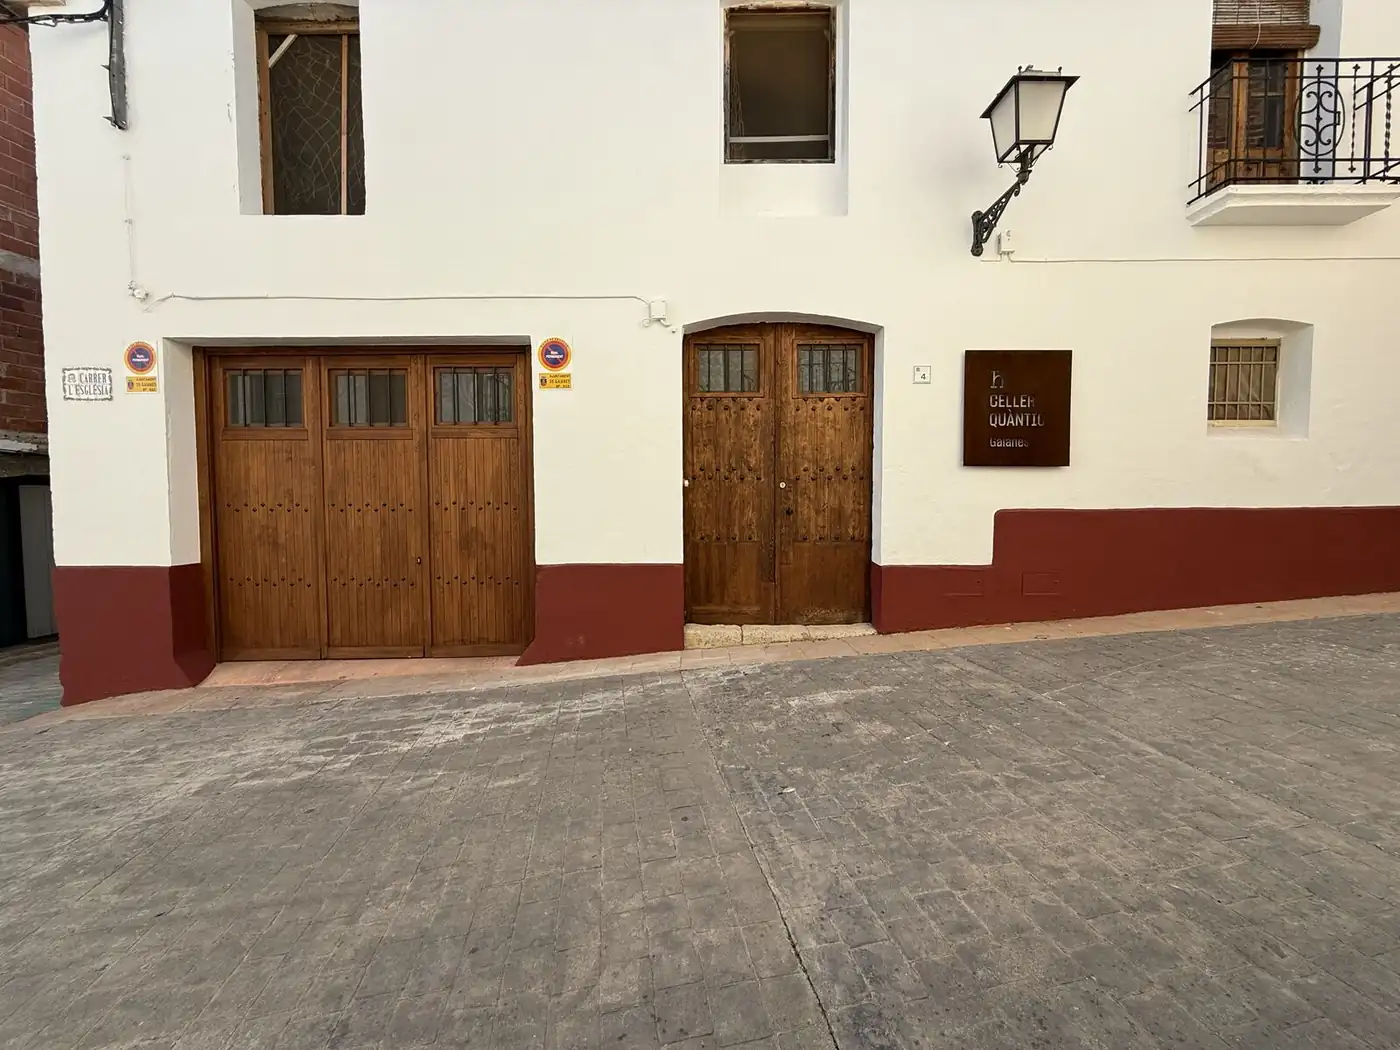
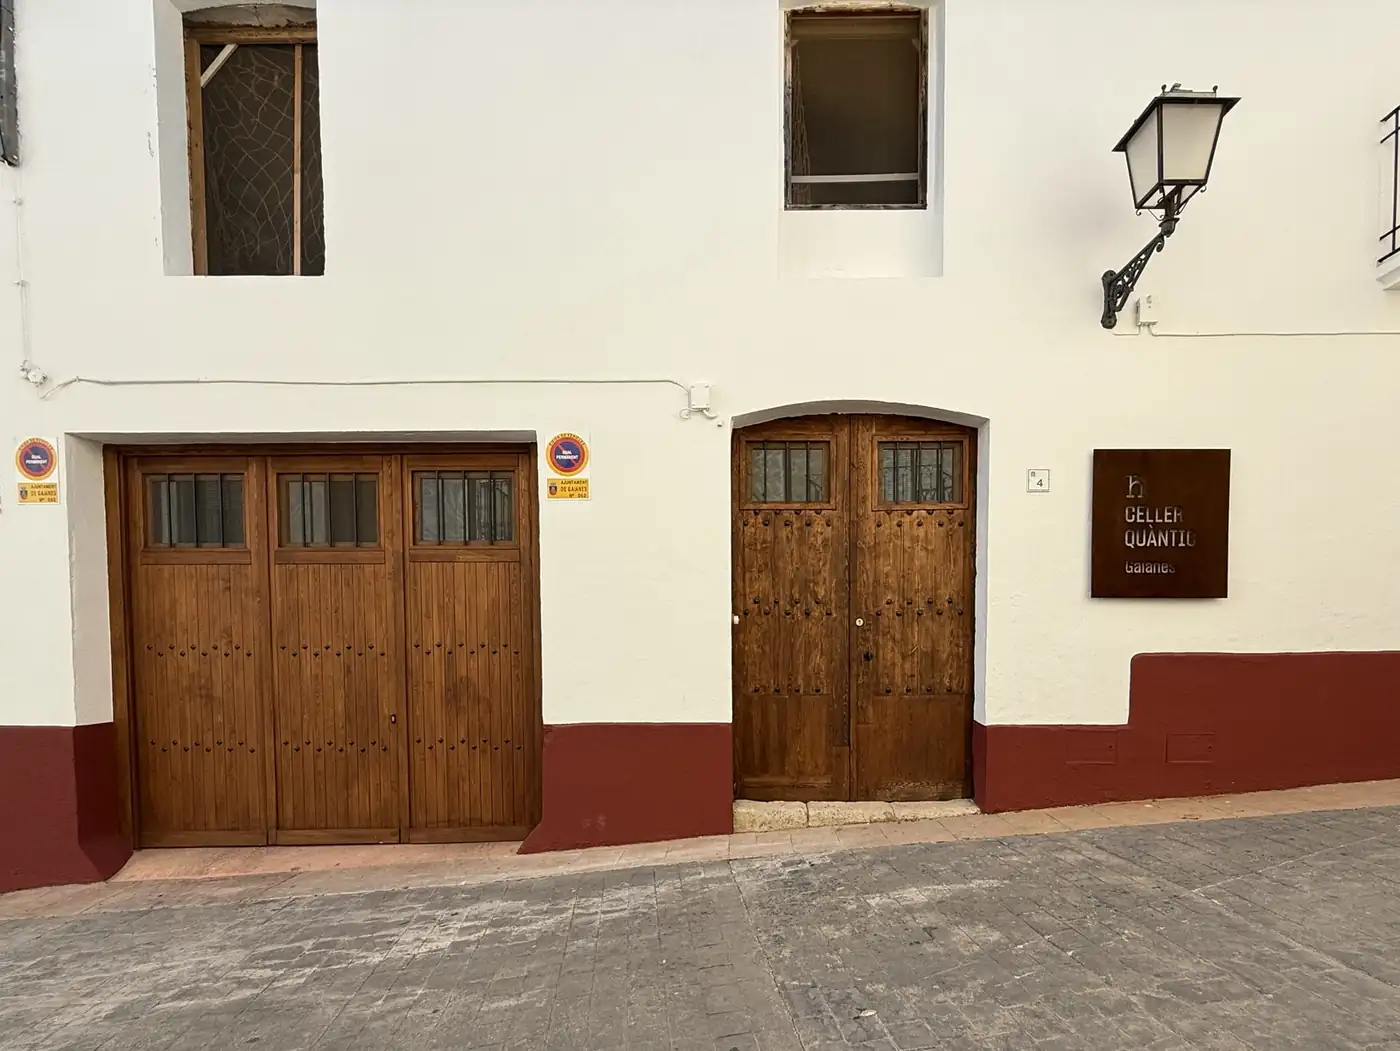
Recrop the winery entrance photo: more wall, windows and lamp, less road
Claude-Session: https://claude.ai/code/session_016crXexfTsRXvAt12AP2cxN

diff --git a/style.css b/style.css
@@ -132,9 +132,9 @@ svg.h{display:inline-block;width:.66em;height:.78em;vertical-align:baseline;over
 .grid4 blockquote{margin:0;font:italic 1.2rem/1.4 var(--display);color:var(--ink)}
 
 /* visit */
-.visit{display:grid;grid-template-columns:1fr 1fr;padding:0;background:var(--white)}
-.visit-img{position:relative;min-height:420px}
-.visit-img img{position:absolute;inset:0;height:100%;object-fit:cover;object-position:center 75%}
+.visit{display:grid;grid-template-columns:1fr 1fr;align-items:center;padding:0;background:var(--white)}
+.visit-img{padding:clamp(40px,6vw,80px) 0 clamp(40px,6vw,80px) var(--pad)}
+.visit-img img{width:100%;height:auto;aspect-ratio:1600/1201}
 .visit-text{padding:clamp(56px,7vw,96px) var(--pad)}
 .visit-lede{font:italic 400 1.35rem/1.45 var(--display);color:var(--ink);max-width:28em}
 .tours{list-style:none;margin:28px 0;padding:0}
@@ -178,7 +178,7 @@ svg.h{display:inline-block;width:.66em;height:.78em;vertical-align:baseline;over
   .labels{grid-template-columns:repeat(3,minmax(0,1fr));max-width:none;gap:12px}
   .labels figcaption{font-size:.82rem}
   .grid4{grid-template-columns:1fr 1fr}
-  .visit-img{min-height:320px}
+  .visit-img{padding:0}
   .band-right{align-items:flex-start}
 }
 @media (max-width:560px){

diff --git a/index.html b/index.html
@@ -13,7 +13,7 @@
 <link rel="preconnect" href="https://fonts.gstatic.com" crossorigin>
 <link href="https://fonts.googleapis.com/css2?family=Cormorant+Garamond:ital,wght@0,500;1,400&family=Jost:wght@500&family=Source+Serif+4:ital@0;1&display=swap" rel="stylesheet">
 <link rel="preload" as="image" href="img/lead-1448.webp" imagesrcset="img/lead-800.webp 800w, img/lead-1448.webp 1448w" imagesizes="100vw" fetchpriority="high">
-<link rel="stylesheet" href="style.css?v=9">
+<link rel="stylesheet" href="style.css?v=10">
 </head>
 <body>
 

diff --git a/invinoveritas.html b/invinoveritas.html
@@ -12,7 +12,7 @@
 <link rel="preconnect" href="https://fonts.googleapis.com">
 <link rel="preconnect" href="https://fonts.gstatic.com" crossorigin>
 <link href="https://fonts.googleapis.com/css2?family=Cormorant+Garamond:ital,wght@0,500;1,400&family=Jost:wght@500&family=Source+Serif+4:ital@0;1&display=swap" rel="stylesheet">
-<link rel="stylesheet" href="style.css?v=9">
+<link rel="stylesheet" href="style.css?v=10">
 </head>
 <body>
 <!-- ħ glyph, reused below with <use href="#hbar"> -->

diff --git a/news.html b/news.html
@@ -12,7 +12,7 @@
 <link rel="preconnect" href="https://fonts.googleapis.com">
 <link rel="preconnect" href="https://fonts.gstatic.com" crossorigin>
 <link href="https://fonts.googleapis.com/css2?family=Cormorant+Garamond:ital,wght@0,500;1,400&family=Jost:wght@500&family=Source+Serif+4:ital@0;1&display=swap" rel="stylesheet">
-<link rel="stylesheet" href="style.css?v=9">
+<link rel="stylesheet" href="style.css?v=10">
 </head>
 <body>
 <!-- ħ glyph, reused below with <use href="#hbar"> -->
